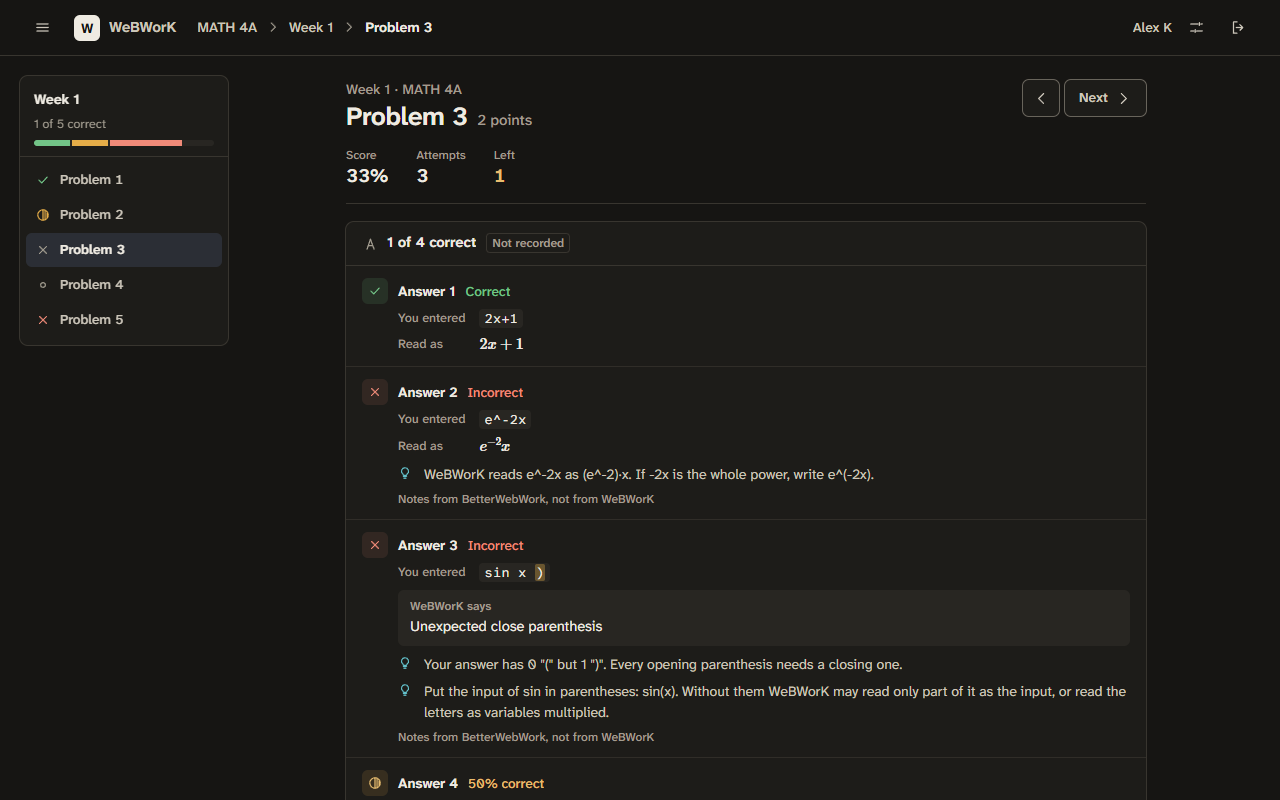
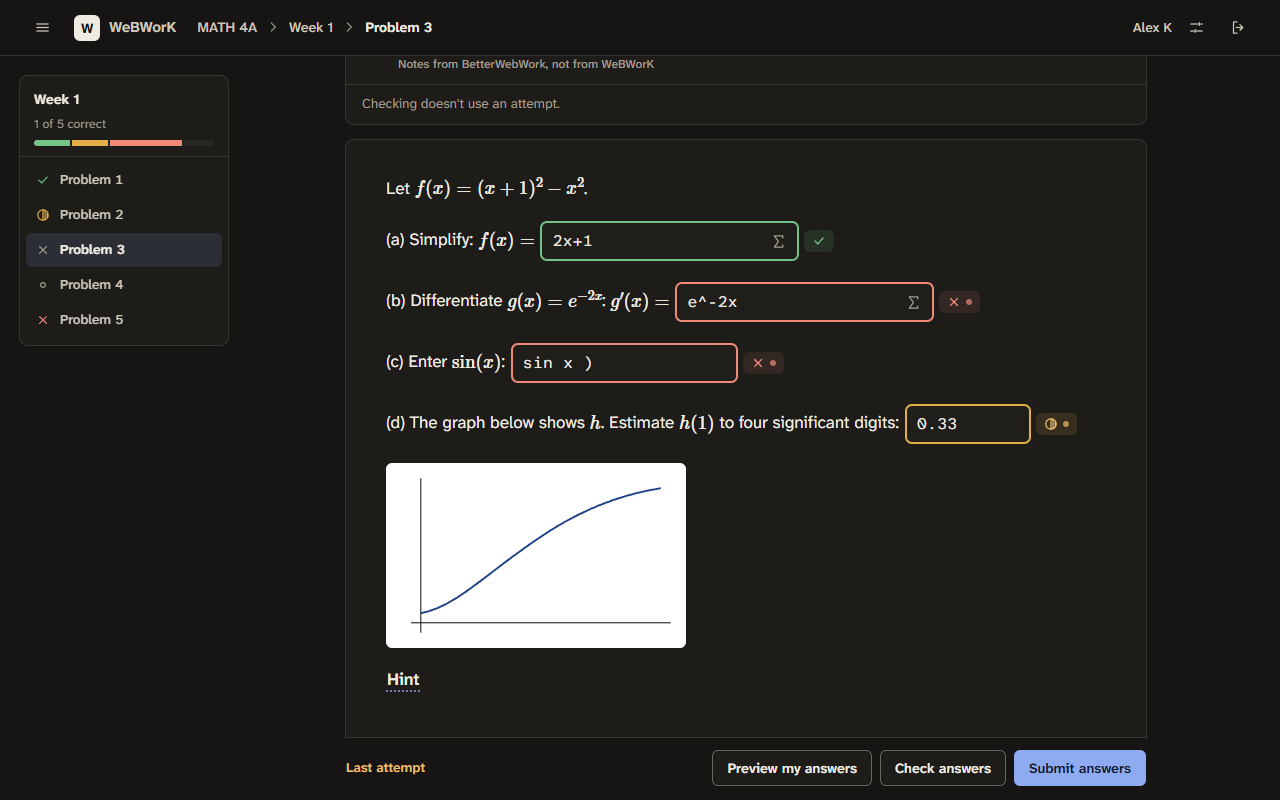
Add store promo tiles and retake two screenshots

diff --git a/store/chrome-web-store.md b/store/chrome-web-store.md
@@ -55,15 +55,17 @@ BetterWebWork is an independent project. It isn't affiliated with WeBWorK, the M
 
 **Store icon:** `icons/icon-128.png`. Google suggests 96×96 artwork inside 16 px of transparent padding; this one fills the square, which the store accepts.
 
-**Screenshots:** 1280×800 (or 640×400), 1 to 5, square corners. The five below are in `store/screenshots/`, numbered in this order; addons.mozilla.org takes the same files. They come from the fixture pages with MathJax added (the fixtures don't load WeBWorK's) and the instructor's login cut from the course title. To retake them, take them in Chrome with DevTools' device toolbar set to 1280×800, then **Capture screenshot** from the ⋮ menu. Use a page with no real classmate or instructor names, or the fixture pages (`python -m http.server 4799` in this folder, then `http://127.0.0.1:4799/tests/fixtures/webwork2/`) after replacing the name in the bar. In order:
+**Screenshots:** 1280×800 (or 640×400), 1 to 5, square corners. The five below are in `store/screenshots/`, numbered in this order; addons.mozilla.org takes the same files. They come from the fixture pages with MathJax added (the fixtures don't load WeBWorK's), MathQuill's one-box layout for answer boxes (the fixtures' stand-in leaves its textarea showing) and the instructor's login cut from the course title. To retake them, take them in Chrome with DevTools' device toolbar set to 1280×800, then **Capture screenshot** from the ⋮ menu. Use a page with no real classmate or instructor names, or the fixture pages (`python -m http.server 4799` in this folder, then `http://127.0.0.1:4799/tests/fixtures/webwork2/`) after replacing the name in the bar. In order:
 
 1. A problem after **Check answers**, with marks on the blanks and the results list (Paper).
-2. The same page in Paper Dark.
+2. The same page in Paper Dark, scrolled to the problem: each blank with its mark beside it.
 3. A set page: due date in words, progress, the next-problem key.
 4. A course's set list or the course list.
 5. The settings drawer on the Themes section, with a Pocket theme applied.
 
-**Promo tiles and video:** optional; leave empty.
+**Promo tiles:** optional, but the small tile is what the store shows in search, category and featured rows. Upload `store/promo/small-promo-440x280.png` and `store/promo/marquee-promo-1400x560.png` (the marquee only shows if Google features the extension on the home page). Both are 24-bit PNGs on the icon's ink field, in Atkinson Hyperlegible Next.
+
+**Promo video:** optional; leave empty.
 
 **Homepage URL:** `https://github.com/imanimal/betterwebwork`
 
